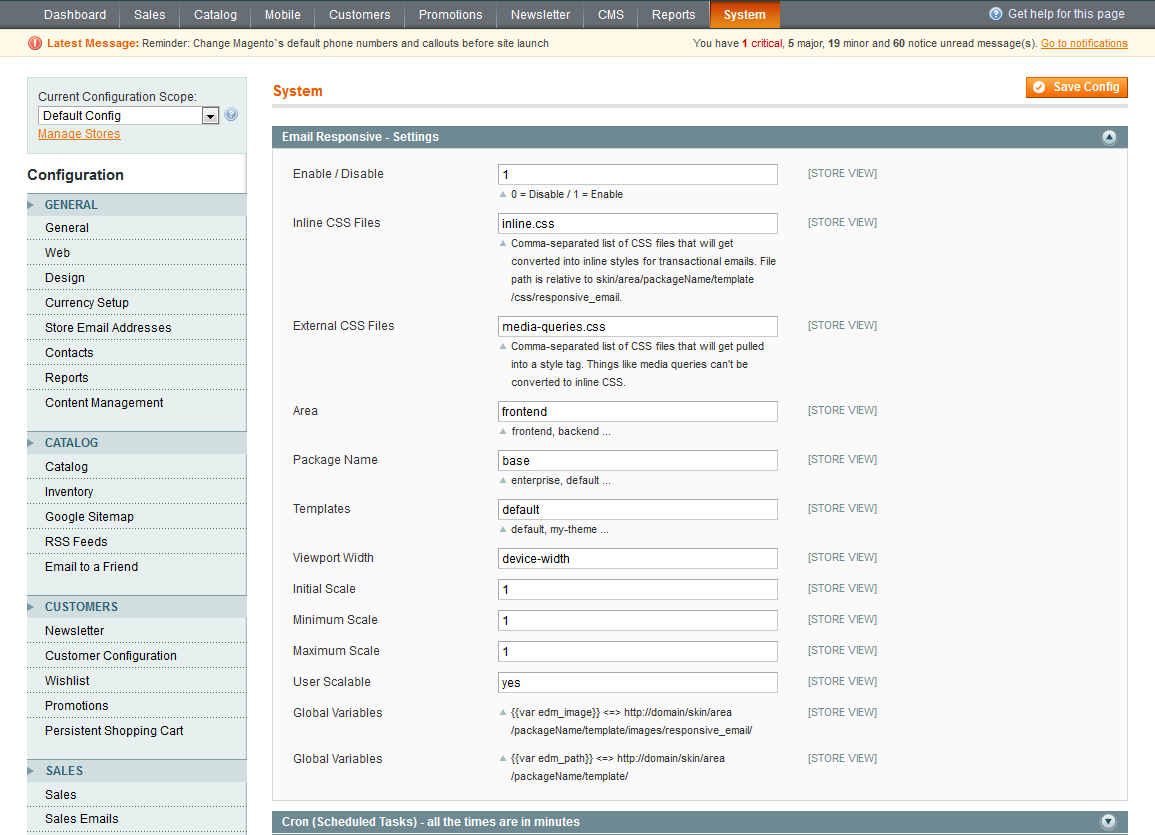
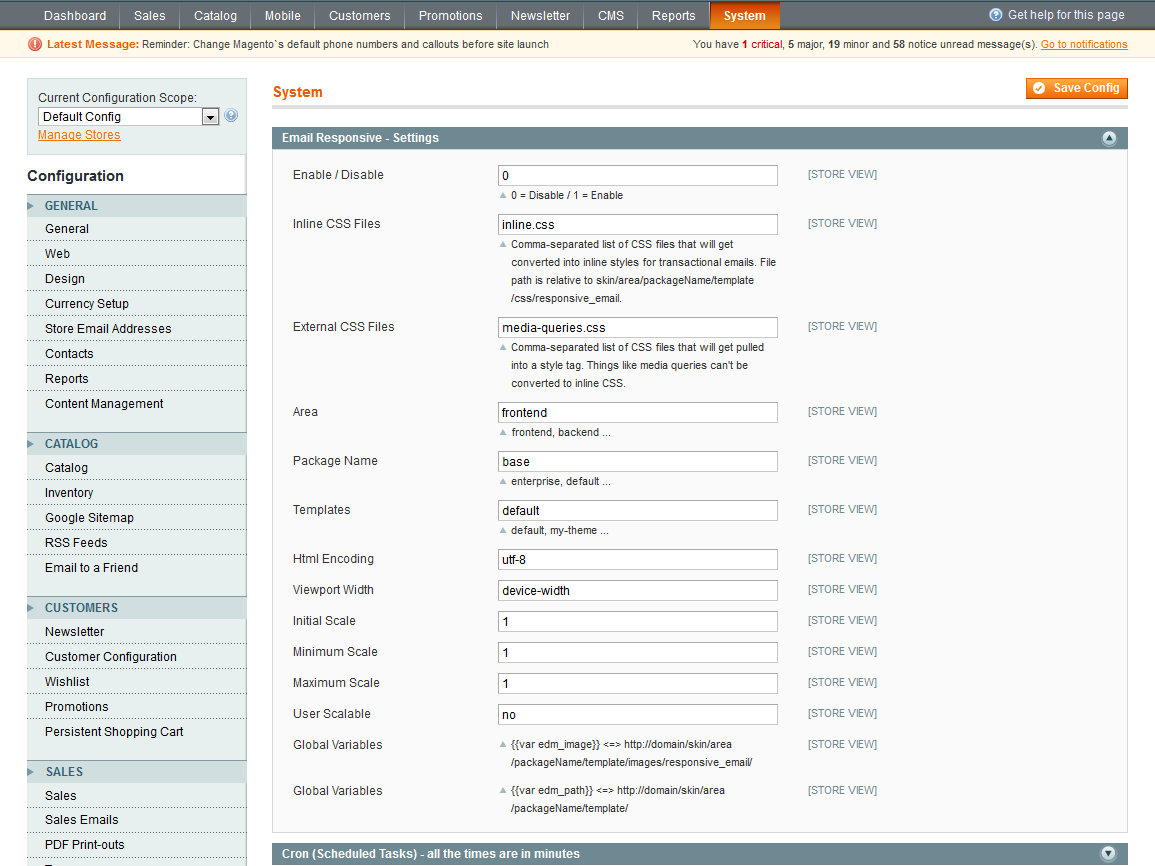
add charset config & update guide

diff --git a/app/code/community/Edm/ResponsiveEmail/Model/Email/Template.php b/app/code/community/Edm/ResponsiveEmail/Model/Email/Template.php
@@ -12,6 +12,7 @@ class Edm_ResponsiveEmail_Model_Email_Template extends Edm_ResponsiveEmail_Model
             $edm_package = Mage::getStoreConfig('system/mail_style/edmconfig_package');
             $edm_theme = Mage::getStoreConfig('system/mail_style/edmconfig_theme');
             $edm_area = Mage::getStoreConfig('system/mail_style/edmconfig_area');
+            $edm_charset = Mage::getStoreConfig('system/mail_style/edmconfig_charset');
             $edm_viewport_width = Mage::getStoreConfig('system/mail_style/edmconfig_viewport_width');
             $edm_viewport_init = Mage::getStoreConfig('system/mail_style/edmconfig_viewport_initial');
             $edm_viewport_min = Mage::getStoreConfig('system/mail_style/edmconfig_viewport_min');
@@ -37,6 +38,7 @@ class Edm_ResponsiveEmail_Model_Email_Template extends Edm_ResponsiveEmail_Model
             $styleIncludePath = str_replace($replacePath, $mediaPath, $cssReplace);
 
             $styleExt = "<meta name='viewport' content='width=".$edm_viewport_width.", initial-scale=".$edm_viewport_init.", minimum-scale=".$edm_viewport_min.", maximum-scale=".$edm_viewport_max.", user-scalable=".$edm_user_scalable."'/>";
+            $styleExt .= "<meta http-equiv='Content-Type' content='text/html; charset=".$edm_charset."' />";
             $styleExt .= "<style type=\"text/css\">\n%s\n</style>\n%s";
             $styleExtInclude = sprintf($styleExt, $styleIncludePath, $html);
 

diff --git a/README.md b/README.md
@@ -8,6 +8,7 @@ This module automatically converts an external set of stylesheets to inline CSS 
 
 *   Module enable/disable
 *   Directory config
+*   HTML Encoding config
 *   Add viewport & config
 *   Add new variable `{{var edm_image}}` - get image path - `{{var edm_path}}` - get base url
 *   Automatic convert CSS to inline
@@ -29,6 +30,19 @@ You can add your own stylesheet to add some customization on top of our base CSS
 Customize your email in *System* > *Transactional Emails*
 
 ![alt tag](https://raw.githubusercontent.com/kiennt2/Magento-Responsive-Email/master/guide/03.create-new-email.png)
+
+#### Supported CSS selectors
+
+*   `E F`
+*   `E > F`
+*   `E + F`
+*   `E:first-child`
+*   `E[foo]`
+*   `E[foo="value"]`
+*   `E.className` <=> `E[class~="className"]`
+*   `.className` <=> `*[class~="className"]`
+*   `E#myid`
+*   `#myid`
 
 #### Output - Demo
 
